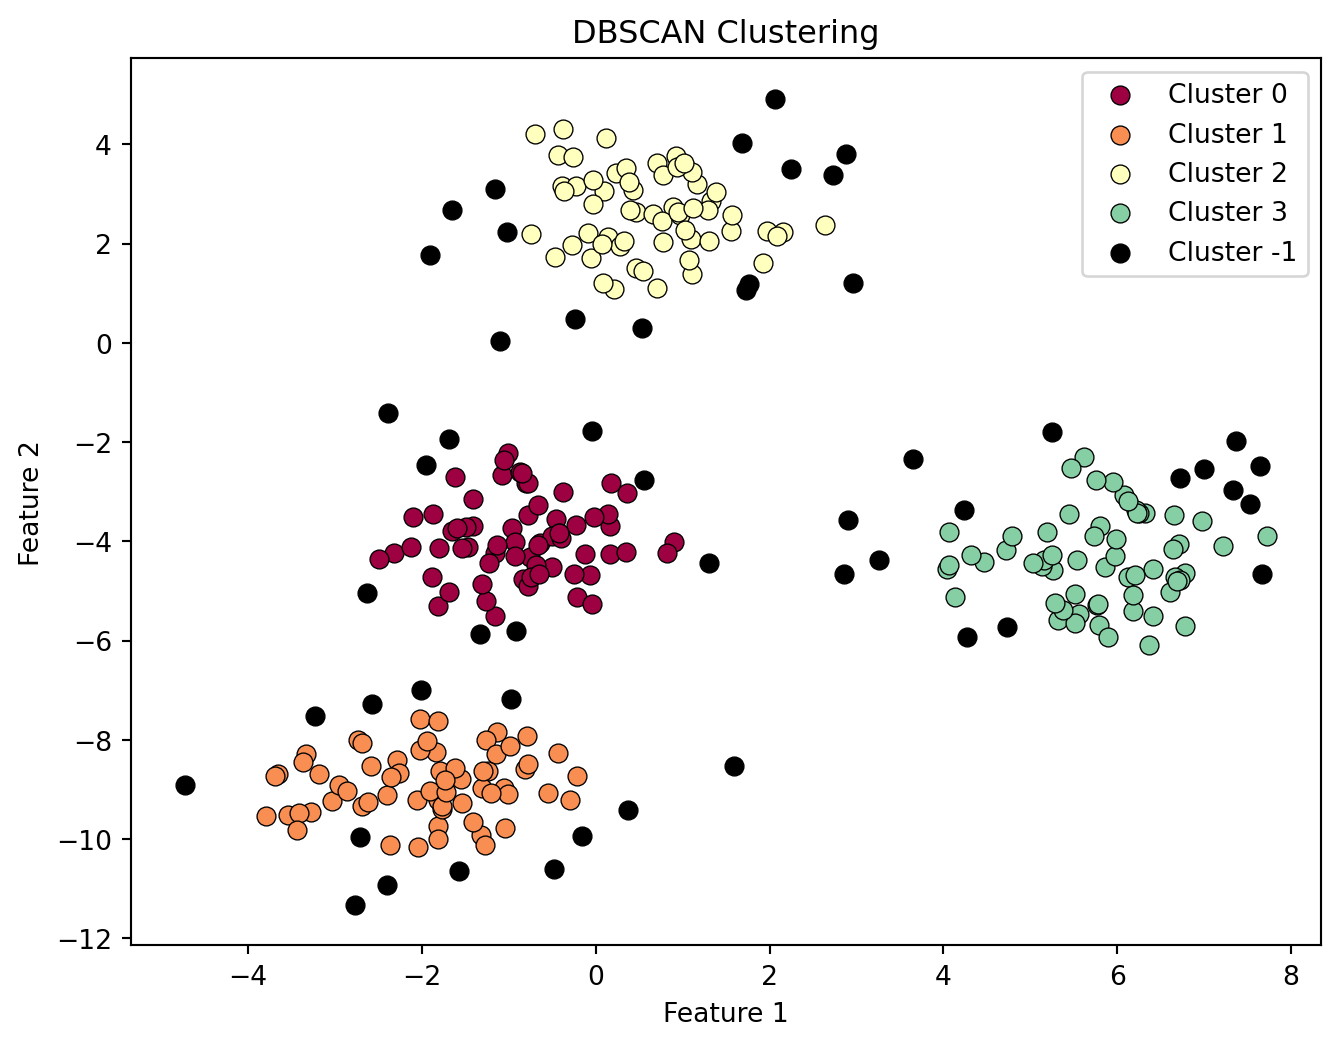
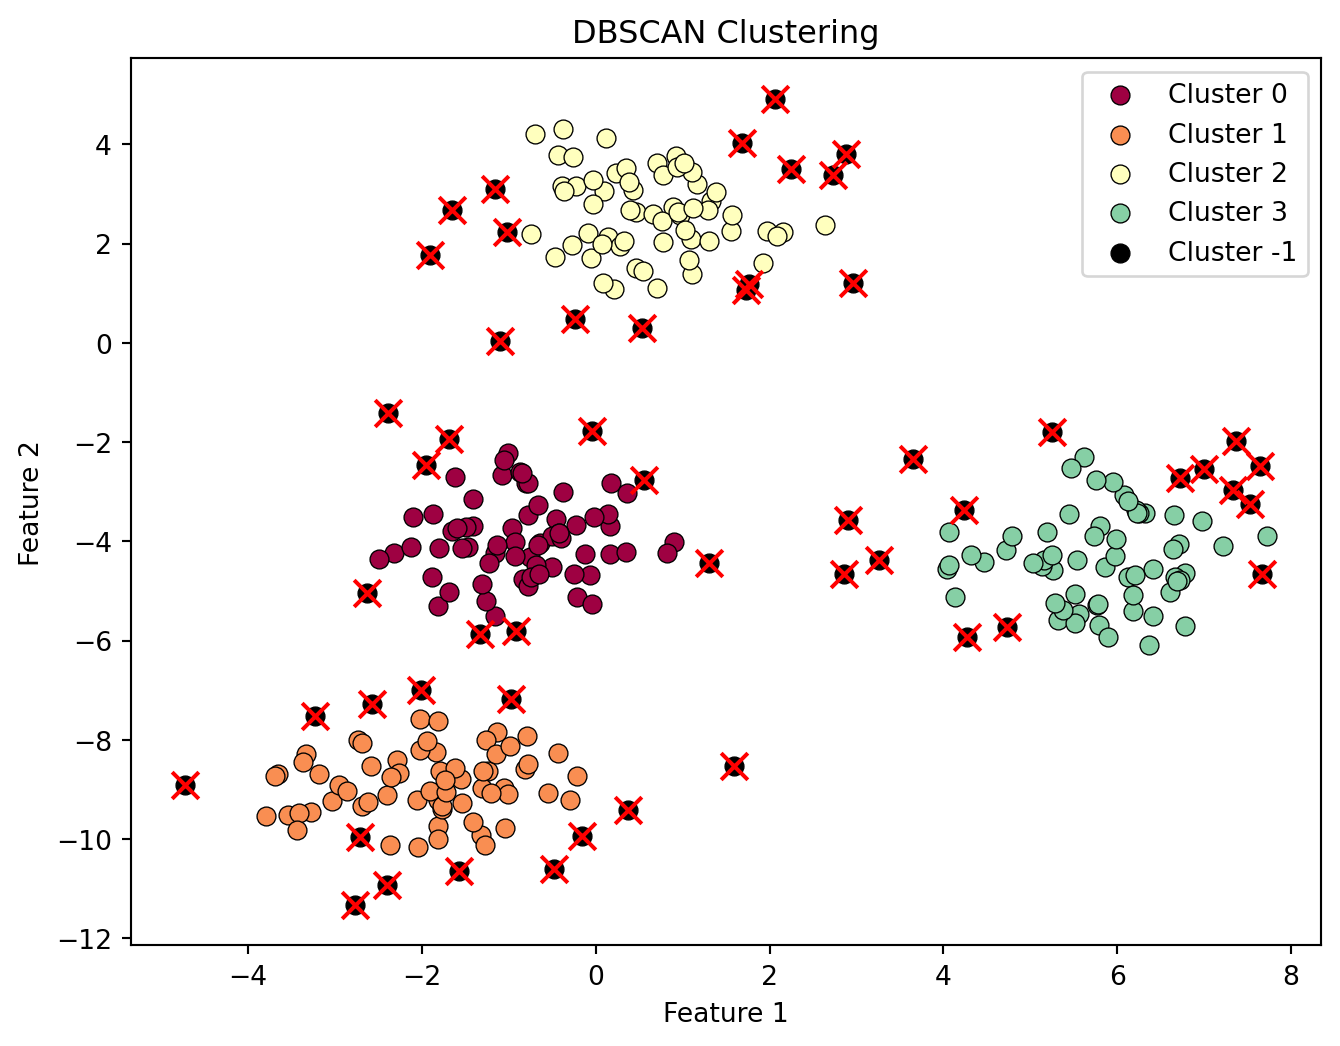
styling

diff --git a/docs/posts/post_5/index.html b/docs/posts/post_5/index.html
@@ -186,9 +186,8 @@ pre > code.sourceCode > span > a:first-child::before { text-decoration: underlin
 
 
 
-<p>-DBSCAN labels for scatter plot</p>
-<p>-Clustering can be used for topic</p>
-<p>DB Scan has built in anomaly detection in data that does not fit close enough to the clusters found.</p>
+<p>-In Progress</p>
+<p>DB Scan has built in anomaly detection in data that does not fit close enough to the clusters found. -Gaussian Mixtures (density)</p>
 <div class="cell" data-execution_count="1">
 <details>
 <summary>Code</summary>
@@ -217,12 +216,17 @@ pre > code.sourceCode > span > a:first-child::before { text-decoration: underlin
 <span id="cb1-23"><a href="#cb1-23" aria-hidden="true" tabindex="-1"></a>    class_member_mask <span class="op">=</span> (labels <span class="op">==</span> label)</span>
 <span id="cb1-24"><a href="#cb1-24" aria-hidden="true" tabindex="-1"></a>    xy <span class="op">=</span> data[class_member_mask]</span>
 <span id="cb1-25"><a href="#cb1-25" aria-hidden="true" tabindex="-1"></a>    plt.scatter(xy[:, <span class="dv">0</span>], xy[:, <span class="dv">1</span>], c<span class="op">=</span>[color], edgecolors<span class="op">=</span><span class="st">'k'</span>, s<span class="op">=</span><span class="dv">50</span>, linewidth<span class="op">=</span><span class="fl">0.5</span>, label<span class="op">=</span><span class="ss">f'Cluster </span><span class="sc">{</span>label<span class="sc">}</span><span class="ss">'</span>)</span>
-<span id="cb1-26"><a href="#cb1-26" aria-hidden="true" tabindex="-1"></a></span>
-<span id="cb1-27"><a href="#cb1-27" aria-hidden="true" tabindex="-1"></a>plt.title(<span class="st">'DBSCAN Clustering'</span>)</span>
-<span id="cb1-28"><a href="#cb1-28" aria-hidden="true" tabindex="-1"></a>plt.xlabel(<span class="st">'Feature 1'</span>)</span>
-<span id="cb1-29"><a href="#cb1-29" aria-hidden="true" tabindex="-1"></a>plt.ylabel(<span class="st">'Feature 2'</span>)</span>
-<span id="cb1-30"><a href="#cb1-30" aria-hidden="true" tabindex="-1"></a>plt.legend()</span>
-<span id="cb1-31"><a href="#cb1-31" aria-hidden="true" tabindex="-1"></a>plt.show()</span></code><button title="Copy to Clipboard" class="code-copy-button"><i class="bi"></i></button></pre></div>
+<span id="cb1-26"><a href="#cb1-26" aria-hidden="true" tabindex="-1"></a>    </span>
+<span id="cb1-27"><a href="#cb1-27" aria-hidden="true" tabindex="-1"></a>anomalies_mask <span class="op">=</span> dbscan.labels_ <span class="op">==</span> <span class="op">-</span><span class="dv">1</span></span>
+<span id="cb1-28"><a href="#cb1-28" aria-hidden="true" tabindex="-1"></a>anomalies <span class="op">=</span> data[anomalies_mask]</span>
+<span id="cb1-29"><a href="#cb1-29" aria-hidden="true" tabindex="-1"></a>plt.scatter(anomalies[:, <span class="dv">0</span>], anomalies[:, <span class="dv">1</span>],</span>
+<span id="cb1-30"><a href="#cb1-30" aria-hidden="true" tabindex="-1"></a>                c<span class="op">=</span><span class="st">"r"</span>, marker<span class="op">=</span><span class="st">"x"</span>, s<span class="op">=</span><span class="dv">100</span>)</span>
+<span id="cb1-31"><a href="#cb1-31" aria-hidden="true" tabindex="-1"></a></span>
+<span id="cb1-32"><a href="#cb1-32" aria-hidden="true" tabindex="-1"></a>plt.title(<span class="st">'DBSCAN Clustering'</span>)</span>
+<span id="cb1-33"><a href="#cb1-33" aria-hidden="true" tabindex="-1"></a>plt.xlabel(<span class="st">'Feature 1'</span>)</span>
+<span id="cb1-34"><a href="#cb1-34" aria-hidden="true" tabindex="-1"></a>plt.ylabel(<span class="st">'Feature 2'</span>)</span>
+<span id="cb1-35"><a href="#cb1-35" aria-hidden="true" tabindex="-1"></a>plt.legend()</span>
+<span id="cb1-36"><a href="#cb1-36" aria-hidden="true" tabindex="-1"></a>plt.show()</span></code><button title="Copy to Clipboard" class="code-copy-button"><i class="bi"></i></button></pre></div>
 </details>
 <div class="cell-output cell-output-display">
 <p><img src="index_files/figure-html/cell-2-output-1.png" width="670" height="523"></p>

diff --git a/docs/index.html b/docs/index.html
@@ -176,7 +176,7 @@ ul.task-list li input[type="checkbox"] {
 
 <div class="quarto-listing quarto-listing-container-default" id="listing-listing">
 <div class="list quarto-listing-default">
-<div class="quarto-post image-right" data-index="0" data-categories="analysis" data-listing-date-sort="1700715600000" data-listing-file-modified-sort="1701813919774" data-listing-date-modified-sort="NaN" data-listing-reading-time-sort="1">
+<div class="quarto-post image-right" data-index="0" data-categories="analysis" data-listing-date-sort="1700715600000" data-listing-file-modified-sort="1701816523563" data-listing-date-modified-sort="NaN" data-listing-reading-time-sort="1">
 <div class="thumbnail">
 <p><a href="./posts/post_5/index.html"> <p class="card-img-top"><img src="posts\post_5\index_files\figure-html\cell-2-output-1.png"  class="thumbnail-image card-img"/></p> </a></p>
 </div>
@@ -196,7 +196,7 @@ analysis
 </div>
 <a href="./posts/post_5/index.html">
 <div class="listing-description">
--DBSCAN labels for scatter plot
+-In Progress
 </div>
 </a>
 </div>
@@ -281,7 +281,7 @@ Greg Brinson
 </a>
 </div>
 </div>
-<div class="quarto-post image-right" data-index="3" data-categories="analysis" data-listing-date-sort="1700715600000" data-listing-file-modified-sort="1701754478694" data-listing-date-modified-sort="NaN" data-listing-reading-time-sort="3">
+<div class="quarto-post image-right" data-index="3" data-categories="analysis" data-listing-date-sort="1700715600000" data-listing-file-modified-sort="1701815170627" data-listing-date-modified-sort="NaN" data-listing-reading-time-sort="3">
 <div class="thumbnail">
 <p><a href="./posts/post_3/index.html"> <p class="card-img-top"><img src="posts\post_3\index_files\figure-html\cell-4-output-1.png"  class="thumbnail-image card-img"/></p> </a></p>
 </div>
@@ -301,7 +301,7 @@ analysis
 </div>
 <a href="./posts/post_3/index.html">
 <div class="listing-description">
-Here you can see a linear prediction based on random data with a linear trend. The model finds the most accurate linear expression based on the given data.
+Here you can see a linear prediction based on random data with a linear trend. The model finds the most accurate linear expression based on the given data and graphs its…
 </div>
 </a>
 </div>
@@ -316,7 +316,7 @@ Greg Brinson
 </a>
 </div>
 </div>
-<div class="quarto-post image-right" data-index="4" data-categories="news,code,analysis" data-listing-date-sort="1700715600000" data-listing-file-modified-sort="1701726324734" data-listing-date-modified-sort="NaN" data-listing-reading-time-sort="1">
+<div class="quarto-post image-right" data-index="4" data-categories="news,code,analysis" data-listing-date-sort="1700715600000" data-listing-file-modified-sort="1701816440480" data-listing-date-modified-sort="NaN" data-listing-reading-time-sort="1">
 <div class="thumbnail">
 <p><a href="./posts/post_1/index.html"> <div class="listing-item-img-placeholder card-img-top" >&nbsp;</div> </a></p>
 </div>
@@ -342,7 +342,7 @@ analysis
 </div>
 <a href="./posts/post_1/index.html">
 <div class="listing-description">
--Histogram
+-TBD
 </div>
 </a>
 </div>

diff --git a/docs/posts/post_3/index.html b/docs/posts/post_3/index.html
@@ -186,14 +186,14 @@ pre > code.sourceCode > span > a:first-child::before { text-decoration: underlin
 
 
 
-<p>Here you can see a linear prediction based on random data with a linear trend. The model finds the most accurate linear expression based on the given data.</p>
+<p>Here you can see a linear prediction based on random data with a linear trend. The model finds the most accurate linear expression based on the given data and graphs its results. Since we created a linear relationship it will have a high accuracy. In other data sets there will not always be a linear relationship to find, which will require non linear regression.</p>
 <div class="cell" data-execution_count="3">
 <div class="cell-output cell-output-display">
 <p><img src="index_files/figure-html/cell-4-output-1.png" width="517" height="356"></p>
 </div>
 </div>
 <p>When predicting trends the algorithm can have high-bias and underfit the data. This leads to it being too simple and not notice more applicable functions. The algorithm can also get high-variance or overfitting in which the model is too trained to the training data that it does not predict accurately on test data.</p>
-<p>Ridge and Lasso Regression are regularization techniques to prevent overfitting and improve the performance of linear regression models by adding a penalty term.</p>
+<p>Ridge and Lasso Regression are regularization techniques to prevent over fitting and improve the performance of linear regression models by adding a penalty term.</p>
 <p>Ridge Regression aims to minimize the sum of squared differences between the observed and predicted values. Lasso Regression uses the absolute value of the coefficients and uses a penalty term.</p>
 <div class="cell" data-execution_count="4">
 <details>
@@ -231,7 +231,8 @@ pre > code.sourceCode > span > a:first-child::before { text-decoration: underlin
 <p><img src="index_files/figure-html/cell-5-output-1.png" width="672" height="337"></p>
 </div>
 </div>
-<p>Here you can see the accuracy between SVM and Random Forest. Two very different supervised learning models. RandomForest does Non linear regression.</p>
+<p>Here you can see the accuracy between SVM and Random Forest. Two very different supervised learning models. Random Forest performs Non-linear regression.</p>
+<p>This is an example of non linear regression.</p>
 
 
 

diff --git a/docs/posts/post_1/index.html b/docs/posts/post_1/index.html
@@ -154,6 +154,7 @@ ul.task-list li input[type="checkbox"] {
 
 
 
+<p>-TBD</p>
 <p>-Histogram</p>
 
 
